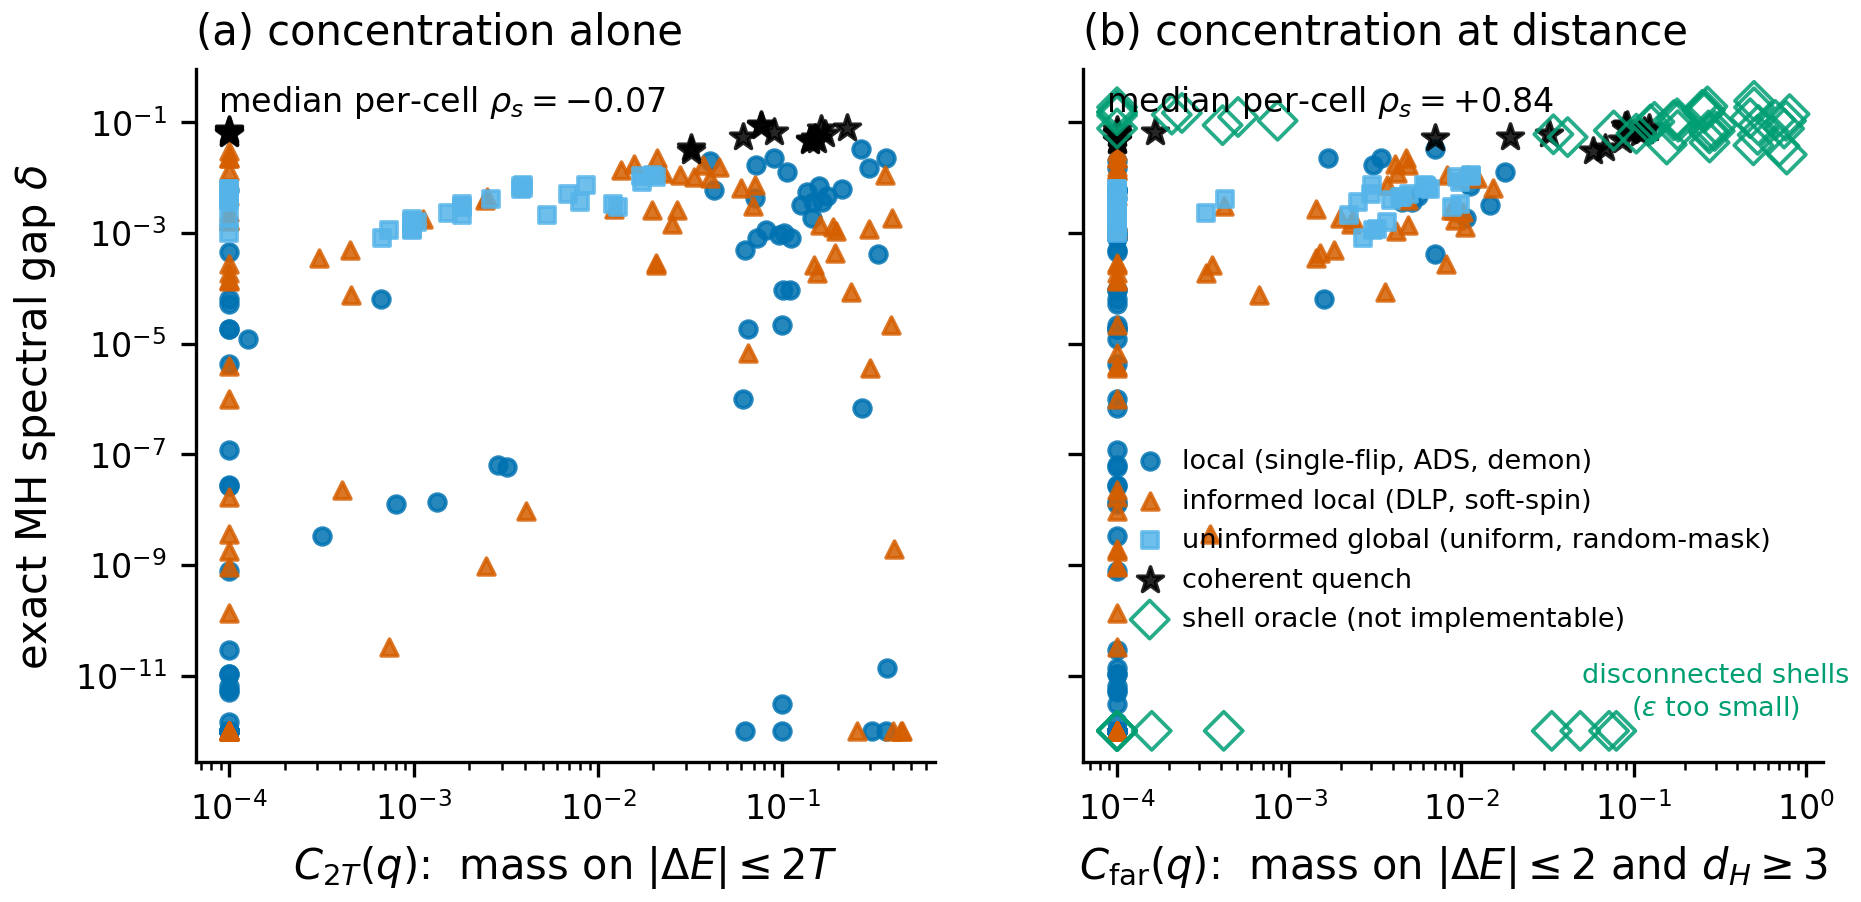
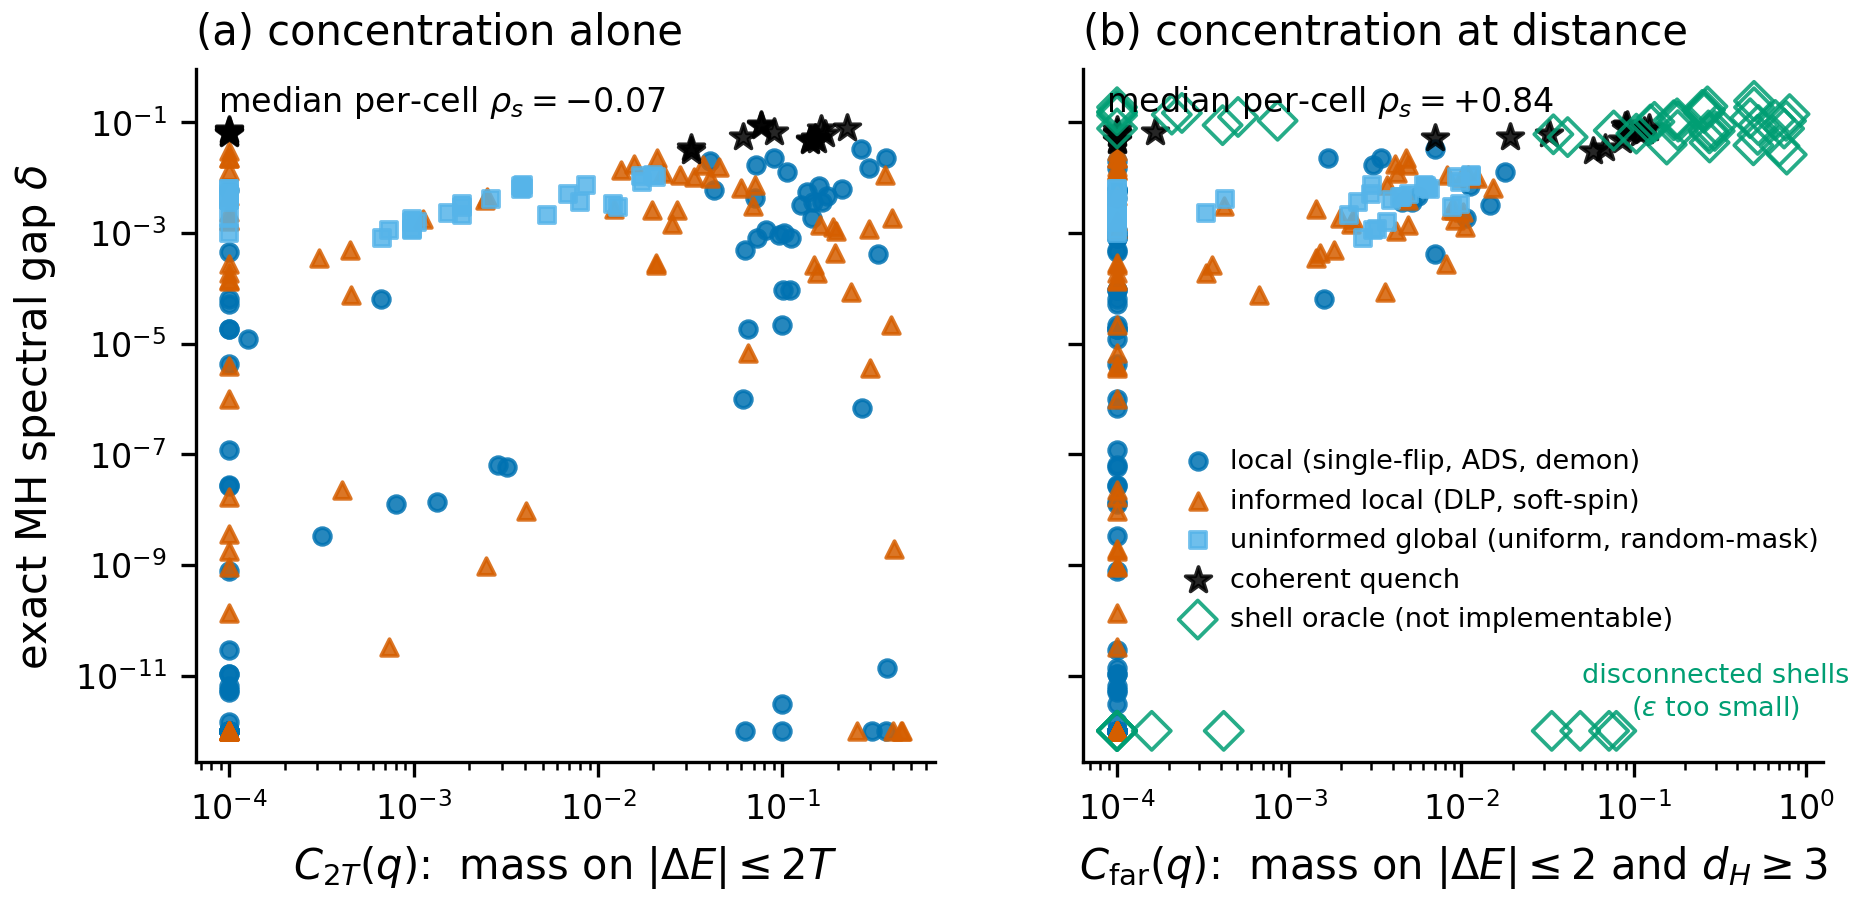
Polish for submission: fix fig 6 legend occlusion, write acknowledgments, add completeness-proof mechanism to abstract, fill author affiliation.
- fig6: legend was frameon=False over the C_far=1e-4 data column; now opaque and shifted clear of the data (locks re-verified: rows 252, cells 18, medians -0.07/+0.84, quench rank 1.17)
- abstract: half-sentence naming the measured certification cost and its mechanism
- acknowledgments: independent work, AI-assistance disclosure, certification-script verification
- affiliation/email filled; remaining TODO is the Zenodo DOI (deferred to deposit)

Claude-Session: https://claude.ai/code/session_01QQHSHziCxdPcE4xhgHZccq

Changed region(s): [[0.5922, 0.4967, 0.9661, 0.714]]

diff --git a/paper/main.tex b/paper/main.tex
@@ -24,8 +24,8 @@
 \title{Noise cannot help quantum-enhanced MCMC: exactness is free, advantage is not}
 
 \author{Darth Kuvius}
-\affiliation{TODO: affiliation}
-\email[]{TODO: corresponding-author email}
+\affiliation{Independent researcher, Pinedale, Wyoming, USA}
+\email[]{fishygeek91@gmail.com}
 
 \date{\today}
 
@@ -62,7 +62,10 @@ exact-tier zoo: energy concentration alone does not predict advantage
 concentration \emph{at Hamming distance} does, and an oracle that
 merely proposes uniformly from the target's energy shell matches or
 beats the quench everywhere --- a mechanism no cheap classical kernel
-we construct reproduces. Noise costs nothing and buys nothing; the
+we construct reproduces, and whose exact classical emulation pays a
+measured certification cost of at least one order of magnitude every
+four spins, because an exact shell proposal must certify a near-empty
+energy window complete --- a proof a physical sampler never performs. Noise costs nothing and buys nothing; the
 quench's edge is global isoenergetic proposals.
 \end{abstract}
 
@@ -1460,7 +1463,14 @@ verdicts. Walk-versus-walk, uniform target, no filter: noise can win.
 Kernel-versus-envelope, Gibbs target, MH filter: noise never wins.
 
 \begin{acknowledgments}
-TODO: acknowledgments.
+This work was carried out independently, without external funding.
+The author developed the theory, experiments, and manuscript with
+substantial assistance from Anthropic's Claude models, used under the
+author's direction for literature search, derivation checking, code
+generation, and drafting. All quantitative claims are backed by the
+certification scripts and pre-registered locks distributed with the
+manuscript source, and were verified by rerunning them; any remaining
+errors are the author's own.
 \end{acknowledgments}
 
 \section*{Data availability}

diff --git a/paper/figures/fig6_concentration_at_distance.py b/paper/figures/fig6_concentration_at_distance.py
@@ -88,7 +88,7 @@ def main() -> None:
     axes[0].set_ylabel(r"exact MH spectral gap $\delta$")
     axes[0].set_title("(a) concentration alone", loc="left")
     axes[1].set_title("(b) concentration at distance", loc="left")
-    axes[1].legend(loc="center left", bbox_to_anchor=(0.02, 0.32), frameon=False, fontsize=6.5, handletextpad=0.2)
+    axes[1].legend(loc="center left", bbox_to_anchor=(0.085, 0.32), frameon=True, framealpha=1.0, facecolor="white", edgecolor="none", fontsize=6.5, handletextpad=0.2)
     axes[1].annotate("disconnected shells\n($\\varepsilon$ too small)", xy=(0.30, GAP_FLOOR*1.5), fontsize=6.5,
                      color=OKABE_ITO["green"], ha="center", va="bottom")
 
